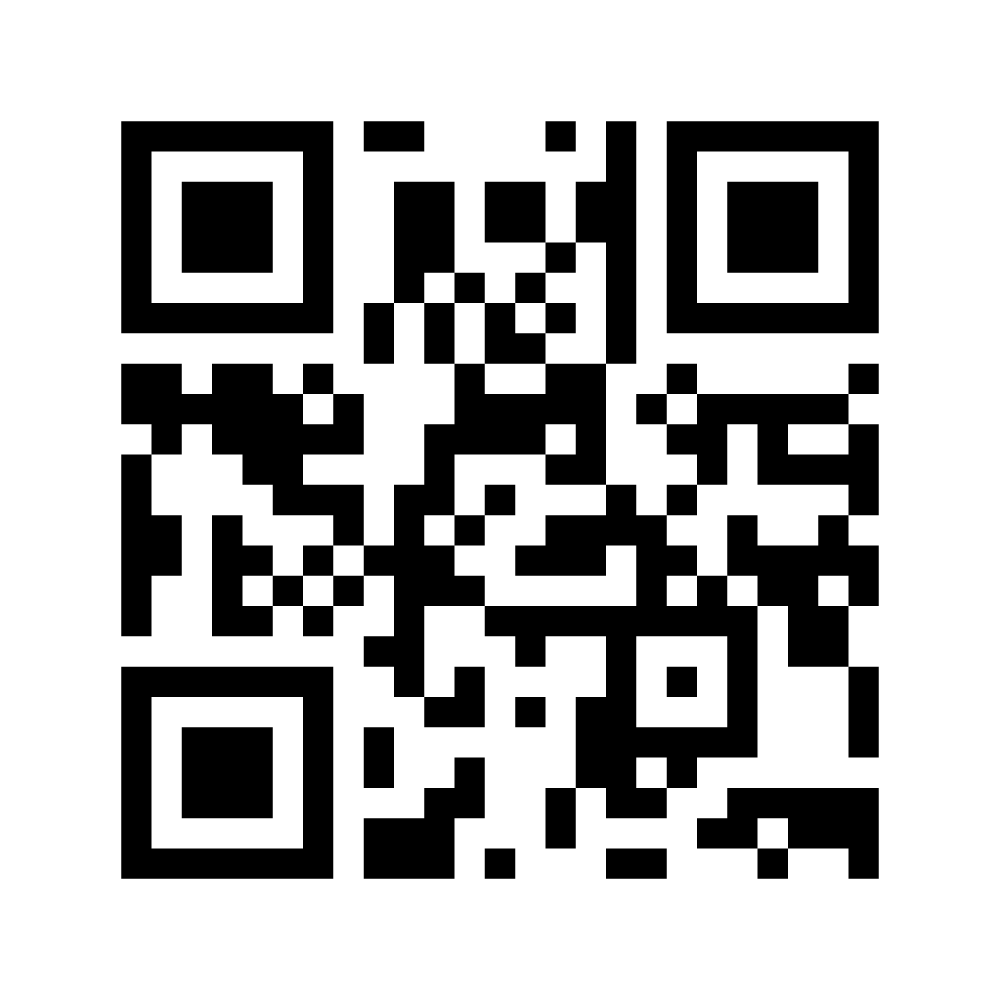
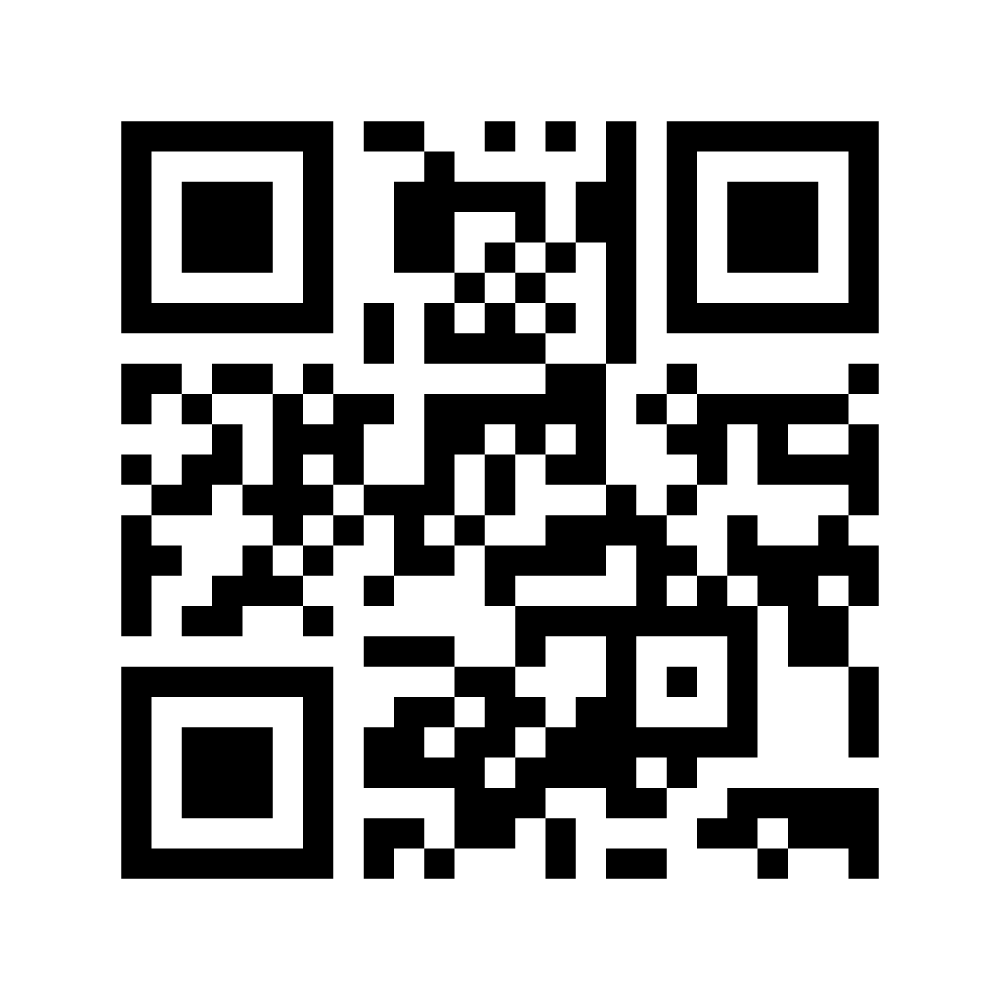
[spiral-grow] final

Changed region(s): [[0.124, 0.31, 0.589, 0.899], [0.403, 0.124, 0.527, 0.279], [0.372, 0.248, 0.434, 0.31]]

diff --git a/spiral-grow-team/index.html b/spiral-grow-team/index.html
@@ -53,9 +53,6 @@
         background: rgba(0,0,0,.2);
       }
 
-      #main * {
-      }
-
       #main h2,
       #main p {
         color: #fff;
@@ -68,6 +65,10 @@
       #main p {
         font-size: 40px;
       }
+
+      .bg {
+        background: #000;
+      }
     </style>
 
     <img class="cover w" src="pictures/download.jpeg" alt="">
@@ -75,15 +76,15 @@
 
     <h2 class="cover">
       Как растить команду
-
       <br>
       <br>
-      <p>* без вреда ментальному здоровью</p>
+      <p>
+        * без вреда ментальному здоровью
+      </p>
     </h2>
 
     <div class="overlap"></div>
   </section>
-
 
   <style>
     .logo1 {
@@ -108,7 +109,6 @@
     </h2>
     <p>
       Кучук Андрей
-
       <br>
       😎 Team Lead CMS team (Shopify department)
       <br>
@@ -133,6 +133,22 @@
 
   <section class="slide">
     <h2>
+      О чем поговорим?
+    </h2>
+
+    <p>
+      🤷 Зачем вообще это нужно?
+      <br>
+      🤷♂ Кому это нужно?
+      <br>
+      🤷♀ Как это выглядит и что можно сделать?
+      <br>
+      🧑🏫 Несколько практических советов
+    </p>
+  </section>
+
+  <section class="slide">
+    <h2>
        О чем поговорим?
     </h2>
 
@@ -149,7 +165,7 @@
     <br>
     <p>Про ментальное здоровье:</p>
 
-    <img class='place b' width="150" src="./pictures/YT-qr.png" alt="" style="bottom: 60px; transform: translate(-50%, 0);">
+    <img class='place b' width="150" src=/pictures/YT-qr.png" alt="" style="bottom: 60px; transform: translate(-50%, 0);">
   </section>
 
 
@@ -163,6 +179,8 @@
       <br>
       💪 Для больших и сложных проектов нужны сильные спецы
       <br>
+      🧠 Сложные задачи - интересные
+      <br>
       👶 Обучить новичка проще чем <strike>найти</strike> заинтересовать эксперта
       <br>
       🧩 Рост разработчиков - тоже часть культуры
@@ -175,27 +193,15 @@
       Кому это нужно?
     </h2>
 
-    <img class='place' width="600" src="https://i.kym-cdn.com/entries/icons/mobile/000/018/489/nick-young-confused-face-300x256-nqlyaa.jpg" alt="">
+    <img class='place' width="600" src="pictures/what.jpeg" alt="">
   </section>
 
   <section class="slide">
-    <h2>
-      Кому это нужно?
-    </h2>
-
-    <img class='place t r' style="z-index: 2;" width="200" src="./pictures/mentimeter_qr_code_v1.png" alt="">
+    <img class='place t r' style="z-index: 2;" width="200" src="pictures/mentimeter_qr_code_v1.png" alt="">
 
     <div style='position: relative; padding-bottom: 56.25%; padding-top: 35px; height: 0; overflow: hidden;'>
       <iframe sandbox='allow-scripts allow-same-origin allow-presentation' allowfullscreen='true' allowtransparency='true' frameborder='0' height='315' src='https://www.mentimeter.com/embed/829cae11da6a0588da19ed46ab949884/16137dba7b11' style='position: absolute; top: 0; left: 0; width: 100%; height: 100%;' width='420'></iframe>
     </div>
-  </section>
-
-  <section class="slide">
-    <img class='cover w b' src="pictures/is-fine.jpeg" alt="">
-  </section>
-
-  <section class="slide">
-    <iframe class="cover" width="1000" height="500" src="https://www.youtube.com/embed/KPON7NVXCXM" title="YouTube video player" frameborder="0" allow="accelerometer; autoplay; clipboard-write; encrypted-media; gyroscope; picture-in-picture" allowfullscreen></iframe>
   </section>
 
   <section class="slide">
@@ -218,17 +224,21 @@
     </p>
   </section>
 
+  <section class="slide">
+    <img class='cover w b' src="pictures/is-fine.jpeg" alt="">
+  </section>
 
-  <section class="slide grows">
-    <style>
-      .grows {
-        background: #000;
-      }
+  <section class="slide bg">
+    <iframe class="cover" width="1000" height="500" src="https://www.youtube.com/embed/KPON7NVXCXM" title="YouTube video player" frameborder="0" allow="accelerometer; autoplay; clipboard-write; encrypted-media; gyroscope; picture-in-picture" allowfullscreen></iframe>
+  </section>
 
-      .grows:after {
-        display: none;
-      }
-    </style>
+  <style>
+    .grows:after {
+      display: none;
+    }
+  </style>
+
+  <section class="slide grows bg">
     <img class='cover h' src="pictures/cariere-grow.jpeg" alt="">
   </section>
 
@@ -241,14 +251,10 @@
   </section>
 
   <section class="slide">
-    <h2 style="position: relative; z-index: 2;">
-      Какие качества развивать?
-    </h2>
-
-    <img class='place t r' style="z-index: 2;" width="200" src="./pictures/mentimeter_qr_code_v2.png" alt="">
+    <img class='place t r' style="z-index: 2;" width="200" src="pictures/mentimeter_qr_code_v2.png" alt="">
 
     <div style='position: relative; padding-bottom: 56.25%; padding-top: 35px; height: 0; overflow: hidden;'>
-      <iframe sandbox='allow-scripts allow-same-origin allow-presentation' allowfullscreen='true' allowtransparency='true' frameborder='0' height='315' src='https://www.mentimeter.com/embed/829cae11da6a0588da19ed46ab949884/16137dba7b11' style='position: absolute; top: 0; left: 0; width: 100%; height: 100%;' width='420'></iframe>
+      <iframe sandbox='allow-scripts allow-same-origin allow-presentation' allowfullscreen='true' allowtransparency='true' frameborder='0' height='315' src='https://www.mentimeter.com/embed/cea75203dc5093253e2b5ade7fc8e7ab/5b1bd6e6d1b2' style='position: absolute; top: 0; left: 0; width: 100%; height: 100%;' width='420'></iframe>
     </div>
   </section>
 
@@ -258,7 +264,7 @@
       Хард скилы
     </h2>
 
-    <img class='cover h' src="./pictures/hard-skills.jpeg" alt="">
+    <img class='cover h' src="pictures/hard-skills.jpeg" alt="">
   </section>
 
   <section class="slide">
@@ -280,16 +286,18 @@
     </p>
   </section>
 
-  <section class="slide">
-    <h2>
-        картинка джуниор - мид - сеньер
-    </h2>
+  <style>
+    .grades {
+      background: #E7E6E9;
+    }
+  </style>
+
+  <section class="slide grades">
+    <img class='cover h' src="pictures/grades.png" alt="">
   </section>
 
-  <section class="slide">
-    <h2>
-      картинка джуниор - мид - сеньер (со стрелочками)
-    </h2>
+  <section class="slide grades">
+    <img class='cover h' src="pictures/grades2.png" alt="">
   </section>
 
   <section class="slide">
@@ -338,18 +346,14 @@
       <h1>🙏 ДОВЕРИЕ !</h1>
     </p>
 
-    <p>Про налог на доверие: </p>
+    <p>
+      Про налог на доверие:
+    </p>
 
-    <img class='place b' width="150" src="./pictures/confidence.png" alt="" style="bottom: 60px; transform: translate(-100%, 0);">
+    <img class='place b' width="150" src="pictures/confidence.png" alt="" style="bottom: 60px; transform: translate(-100%, 0);">
   </section>
 
-  <style>
-    .mentor {
-      background: #000;
-    }
-  </style>
-
-  <section class="slide mentor">
+  <section class="slide bg">
     <img class="cover h" src="pictures/mentor.jpeg" alt="">
   </section>
 
@@ -358,30 +362,25 @@
       Для менторов
     </h2>
 
-    <ul>
-      <li>Все люди лгут</li>
-      <li>Условия, когда легче сделать, чем нет</li>
-      <li>Не смотрите на слова, смотрите на дела</li>
-      <li>Морковка должна быть не только спереди, но и сзади</li>
-      <li>Правильно сказать !== правильно понять (ссылка на доклад)</li>
-      <li>Не рассчитывайте на благодарность, фокус на результат</li>
-      <li>Ментору тоже нужно развиваться</li>
-    </ul>
+    <p>
+      ☝ Все люди лгут
+      <br>
+      ☝ Условия, когда легче сделать, чем нет
+      <br>
+      ☝ Не смотрите на слова, смотрите на дела
+      <br>
+      ☝ Морковка должна быть не только спереди, но и сзади
+      <br>
+      ☝ Правильно сказать !== правильно понять (ссылка на доклад)
+      <br>
+      ☝ Не рассчитывайте на благодарность, фокус на результат
+      <br>
+      ☝ Ментору тоже нужно развиваться
+      <br>
+    </p>
   </section>
 
-  <style>
-    .mentee {
-      background: #000;
-    }
-
-    .mentee h2 {
-      color: #fff;
-      position: relative;
-      z-index: 2;
-    }
-  </style>
-
-  <section class="slide mentee">
+  <section class="slide bg">
     <img class="cover h" src="pictures/mentee.jpeg" alt="">
   </section>
 
@@ -390,20 +389,24 @@
       Для менти
     </h2>
 
-    <ul>
-      <li>Непонятно? - спроси!</li>
-      <li>Понятно - объясни своими словами.</li>
-      <li>Цени время другого человека. Сначала погугли</li>
-      <li>Иногда придется все переделать. Иногда несколько раз</li>
-      <li>Ментор ничего не должен. Ответственность за рост - на тебе</li>
-      <li>Благодари людей</li>
-    </ul>
+    <p>
+      👍 Непонятно? - спроси!
+      <br>
+      👍 Понятно - объясни своими словами.
+      <br>
+      👍 Цени время другого человека. Сначала погугли.
+      <br>
+      👍 Иногда придется все переделать. Иногда несколько раз.
+      <br>
+      👍 Ментор ничего не должен. Ответственность за рост - на тебе.
+      <br>
+      👍 Благодари людей!
+      <br>
+    </p>
   </section>
 
-  <section class="slide">
-    <h2 class="shout">
-      Спасибо!
-    </h2>
+  <section class="slide bg">
+    <img class="place" src="pictures/thanks.jpeg" alt="">
   </section>
 
 
@@ -415,9 +418,6 @@
     <ol>
       <li>
         <a href="https://www.youtube.com/watch?v=5iygkx-XfrY">Про грамотные формулировки</a>
-      </li>
-      <li>
-        <a href="https://www.youtube.com/watch?v=TSh7Uz68PeI">Про грамотные формулировки</a>
       </li>
       <li>
         <a href="https://www.ozon.ru/product/pyat-yazykov-lyubvi-aktualno-dlya-vseh-a-ne-tolko-dlya-supruzheskih-par-chepmen-geri-533521857/?sh=nQoWAqsE-A">Пять языков любви</a>
@@ -432,12 +432,14 @@
         <a href="https://habr.com/ru/company/yandex/blog/476580/">Горизонтальный и вертикальный рост</a>
       </li>
       <li>
-        <a href="https://www.youtube.com/watch?v=KPON7NVXCXM&">Видео про котика</a>
+        <a href="https://www.youtube.com/watch?v=KPON7NVXCXM&">Видео про котика, который фиксит баг</a>
       </li>
       <li>
         <a href="https://www.youtube.com/watch?v=wONsCnYnQb0">Видео про доверие</a>
       </li>
     </ol>
+
+    <img class='place t r' width="150" style="right: 50px; top: 50px;" src="pictures/materials.png" alt="">
   </section>
 
   <section class="slide">
